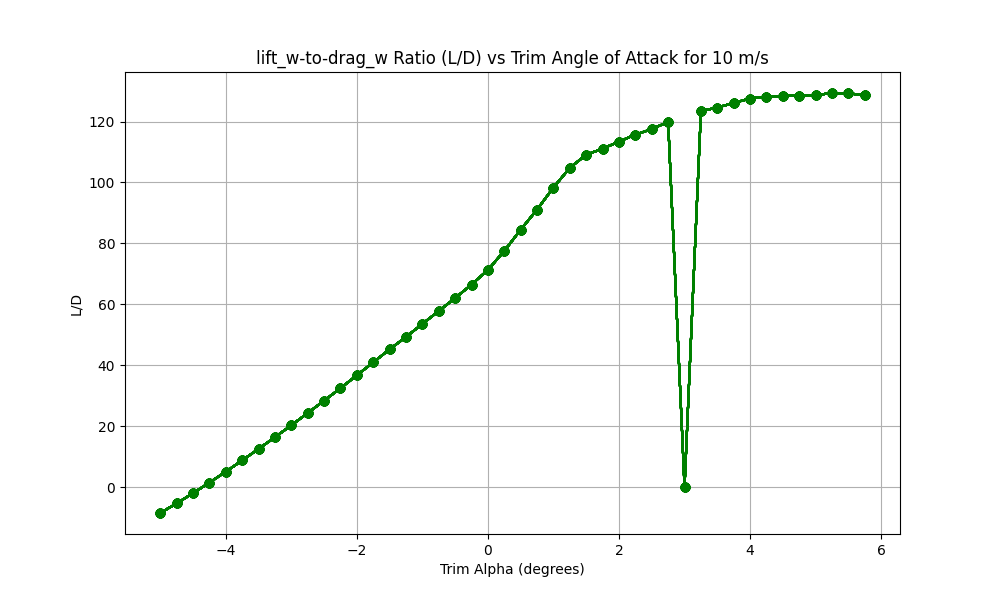
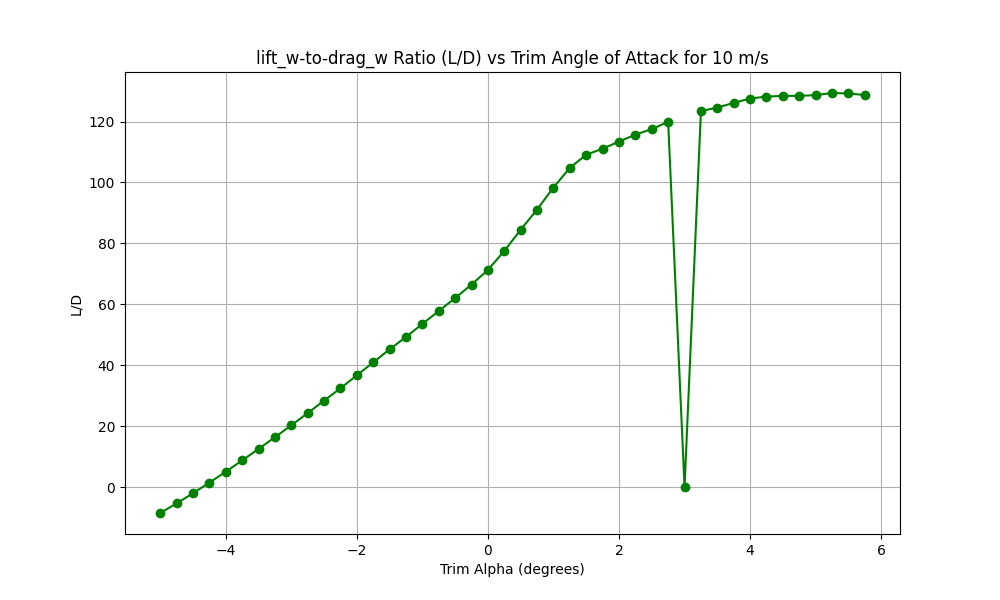
fixed struct structure and moved l/d to an array

diff --git a/src/main.py b/src/main.py
@@ -18,7 +18,6 @@ AR_w = b_w**2 / S_w  # Aspect ratio
 b_t = 0.303  # Wing span (m) UP FOR VARIATION
 S_t = b_t * c  # Wing area (m^2)
 AR_t = b_t**2 / S_t  # Aspect ratio
-i_t = 0  # Incidence angle of the tail (degrees)
 
 W_est = 7 # Estimated weight of the aircraft (N)
 
@@ -33,8 +32,10 @@ alpha = np.array(data['Alpha'])
 #######################################################################################################
 
 # for 1 to 40 m/s
-velocity = np.arange(1, 41, 1)
+velocity = np.arange(1, 45, 1)
 trim_alpha = np.arange(-5, 6, .25)
+# print(trim_alpha)
+# print(np.where(trim_alpha == 5)[0])
 lift_w_arr = []
 drag_w_arr = []
 L_D_w_arr = []
@@ -43,7 +44,6 @@ L_D_w_arr = []
 for a in trim_alpha:
   lift_w_values = []
   drag_w_values = []
-  L_D_w_values = []
   if a in alpha:
     index_a = np.where(alpha == a)[0][0]
     for v in velocity:
@@ -53,21 +53,22 @@ for a in trim_alpha:
       # Append lift_w and drag_w values to the respective lists
       lift_w_values.append(lift_w)
       drag_w_values.append(drag_w)
-      L_D_w_values.append(lift_w / drag_w)
+      L_D_w_value = (lift_w / drag_w)
   else:
     # If the angle of attack is not in alpha, append zeros or handle appropriately
     lift_w_values = [0] * len(velocity)
     drag_w_values = [0] * len(velocity)
-    L_D_w_values = [0] * len(velocity)
+    L_D_w_value = 0
   # Append the list of lift_w and drag_w values for this trim_alpha to the main lists
   lift_w_arr.append(lift_w_values)
   drag_w_arr.append(drag_w_values)
-  L_D_w_arr.append(L_D_w_values)
+  L_D_w_arr.append(L_D_w_value)
 
 # Convert lists to numpy arrays for easier manipulation and analysis
 lift_w_arr = np.array(lift_w_arr)
 drag_w_arr = np.array(drag_w_arr)
 L_D_w_arr = np.array(L_D_w_arr)
+
 
 #######################################################################################################
 ######################################### Tail Calculations ###########################################
@@ -81,7 +82,6 @@ L_D_t_arr = []
 for a in trim_alpha:
   lift_t_values = []
   drag_t_values = []
-  L_D_t_values = []
   if a in alpha:
     index_a = np.where(alpha == a)[0][0]
     for v in velocity:
@@ -91,21 +91,41 @@ for a in trim_alpha:
       # Append lift_w and drag_w values to the respective lists
       lift_t_values.append(lift_t)
       drag_t_values.append(drag_t)
-      L_D_t_values.append(lift_t / drag_t)
+      L_D_t_value = (lift_t / drag_t)
   else:
     # If the angle of attack is not in alpha, append zeros or handle appropriately
     lift_t_values = [0] * len(velocity)
     drag_t_values = [0] * len(velocity)
-    L_D_t_values = [0] * len(velocity)
+    L_D_t_value = 0
   # Append the list of lift_w and drag_w values for this trim_alpha to the main lists
   lift_t_arr.append(lift_t_values)
   drag_t_arr.append(drag_t_values)
-  L_D_t_arr.append(L_D_t_values)
+  L_D_t_arr.append(L_D_t_value)
 
 # Convert lists to numpy arrays for easier manipulation and analysis
 lift_t_arr = np.array(lift_t_arr)
 drag_t_arr = np.array(drag_t_arr)
 L_D_t_arr = np.array(L_D_t_arr)
+
+
+#######################################################################################################
+###################################### Stability Calculations #########################################
+#######################################################################################################
+
+## Constants
+
+# lw ==> distance from cg to wing aerodynamic center
+# lt ==> distance from cg to tail aerodynamic center
+lw = np.arange(0.05, 0.3,48)  #  2in to 1ft => UP FOR VARIATION
+lt = np.arange(0.3, 1.22, 48)  # 1ft to 4ft => UP FOR VARIATION
+i_t = 0  # Incidence angle of the tail (degrees) => UP FOR VARIATION
+trim_alpha_w = 5  # Trim angle of attack for the wing (degrees)
+trim_alpha_t = 5 - i_t  # Trim angle of attack for the tail (degrees)
+
+# Calculations
+
+# for each lw, lt, calculate the i_t required for stability, at 20 m/s
+
 
 #######################################################################################################
 ########################################## Plotting Data ##############################################
@@ -137,7 +157,7 @@ plt.close()
 
 ###### MAIN WING DATA ######
 
-# Plot L/D vs trim alpha for 10 m/s
+# Plot L/D vs trim alpha for 20 m/s
 plt.figure(figsize=(10, 6))
 plt.plot(trim_alpha, L_D_w_arr, marker='o', linestyle='-', color='g')
 plt.title('lift_w-to-drag_w Ratio (L/D) vs Trim Angle of Attack for 10 m/s')
@@ -149,7 +169,7 @@ plt.close()
 
 # Plot lift_w vs velocity for trim alpha = 5 degrees
 plt.figure(figsize=(10, 6))
-plt.plot(velocity, lift_w_arr[20], marker='o', linestyle='-', color='b')
+plt.plot(velocity, lift_w_arr[np.where(trim_alpha == 5)[0][0]], marker='o', linestyle='-', color='b')
 plt.plot(velocity, [W_est]*len(velocity), marker='o', linestyle='-', color='r', label='Weight Estimate')
 plt.title('lift_w vs Velocity for Trim Alpha = 5 degrees')
 plt.xlabel('Velocity (m/s)')
@@ -161,7 +181,7 @@ plt.close()
 
 # Plot drag_w vs velocity for trim alpha = 5 degrees
 plt.figure(figsize=(10, 6))
-plt.plot(velocity, drag_w_arr[20], marker='o', linestyle='-', color='b')
+plt.plot(velocity, drag_w_arr[np.where(trim_alpha == 5)[0][0]], marker='o', linestyle='-', color='b')
 plt.title('drag_w vs Velocity for Trim Alpha = 5 degrees')
 plt.xlabel('Velocity (m/s)')
 plt.ylabel('drag_w (N)')
@@ -171,7 +191,7 @@ plt.close()
 
 ###### TAIL DATA ######
 
-# Plot L/D vs trim alpha for 10 m/s
+# Plot L/D vs trim alpha for 20 m/s
 plt.figure(figsize=(10, 6))
 plt.plot(trim_alpha, L_D_t_arr, marker='o', linestyle='-', color='g')
 plt.title('lift_t-to-drag_t Ratio (L/D) vs Trim Angle of Attack for 10 m/s')
@@ -183,7 +203,7 @@ plt.close()
 
 # Plot lift_t vs velocity for trim alpha = 5 degrees
 plt.figure(figsize=(10, 6))
-plt.plot(velocity, lift_t_arr[20], marker='o', linestyle='-', color='b')
+plt.plot(velocity, lift_t_arr[np.where(trim_alpha == 5)[0][0]], marker='o', linestyle='-', color='b')
 plt.title('lift_t vs Velocity for Trim Alpha = 5 degrees')
 plt.xlabel('Velocity (m/s)')
 plt.ylabel('lift_t (N)')
@@ -193,7 +213,7 @@ plt.close()
 
 # Plot drag_t vs velocity for trim alpha = 5 degrees
 plt.figure(figsize=(10, 6))
-plt.plot(velocity, drag_t_arr[20], marker='o', linestyle='-', color='b')
+plt.plot(velocity, drag_t_arr[np.where(trim_alpha == 5)[0][0]], marker='o', linestyle='-', color='b')
 plt.title('drag_t vs Velocity for Trim Alpha = 5 degrees')
 plt.xlabel('Velocity (m/s)')
 plt.ylabel('drag_t (N)')
